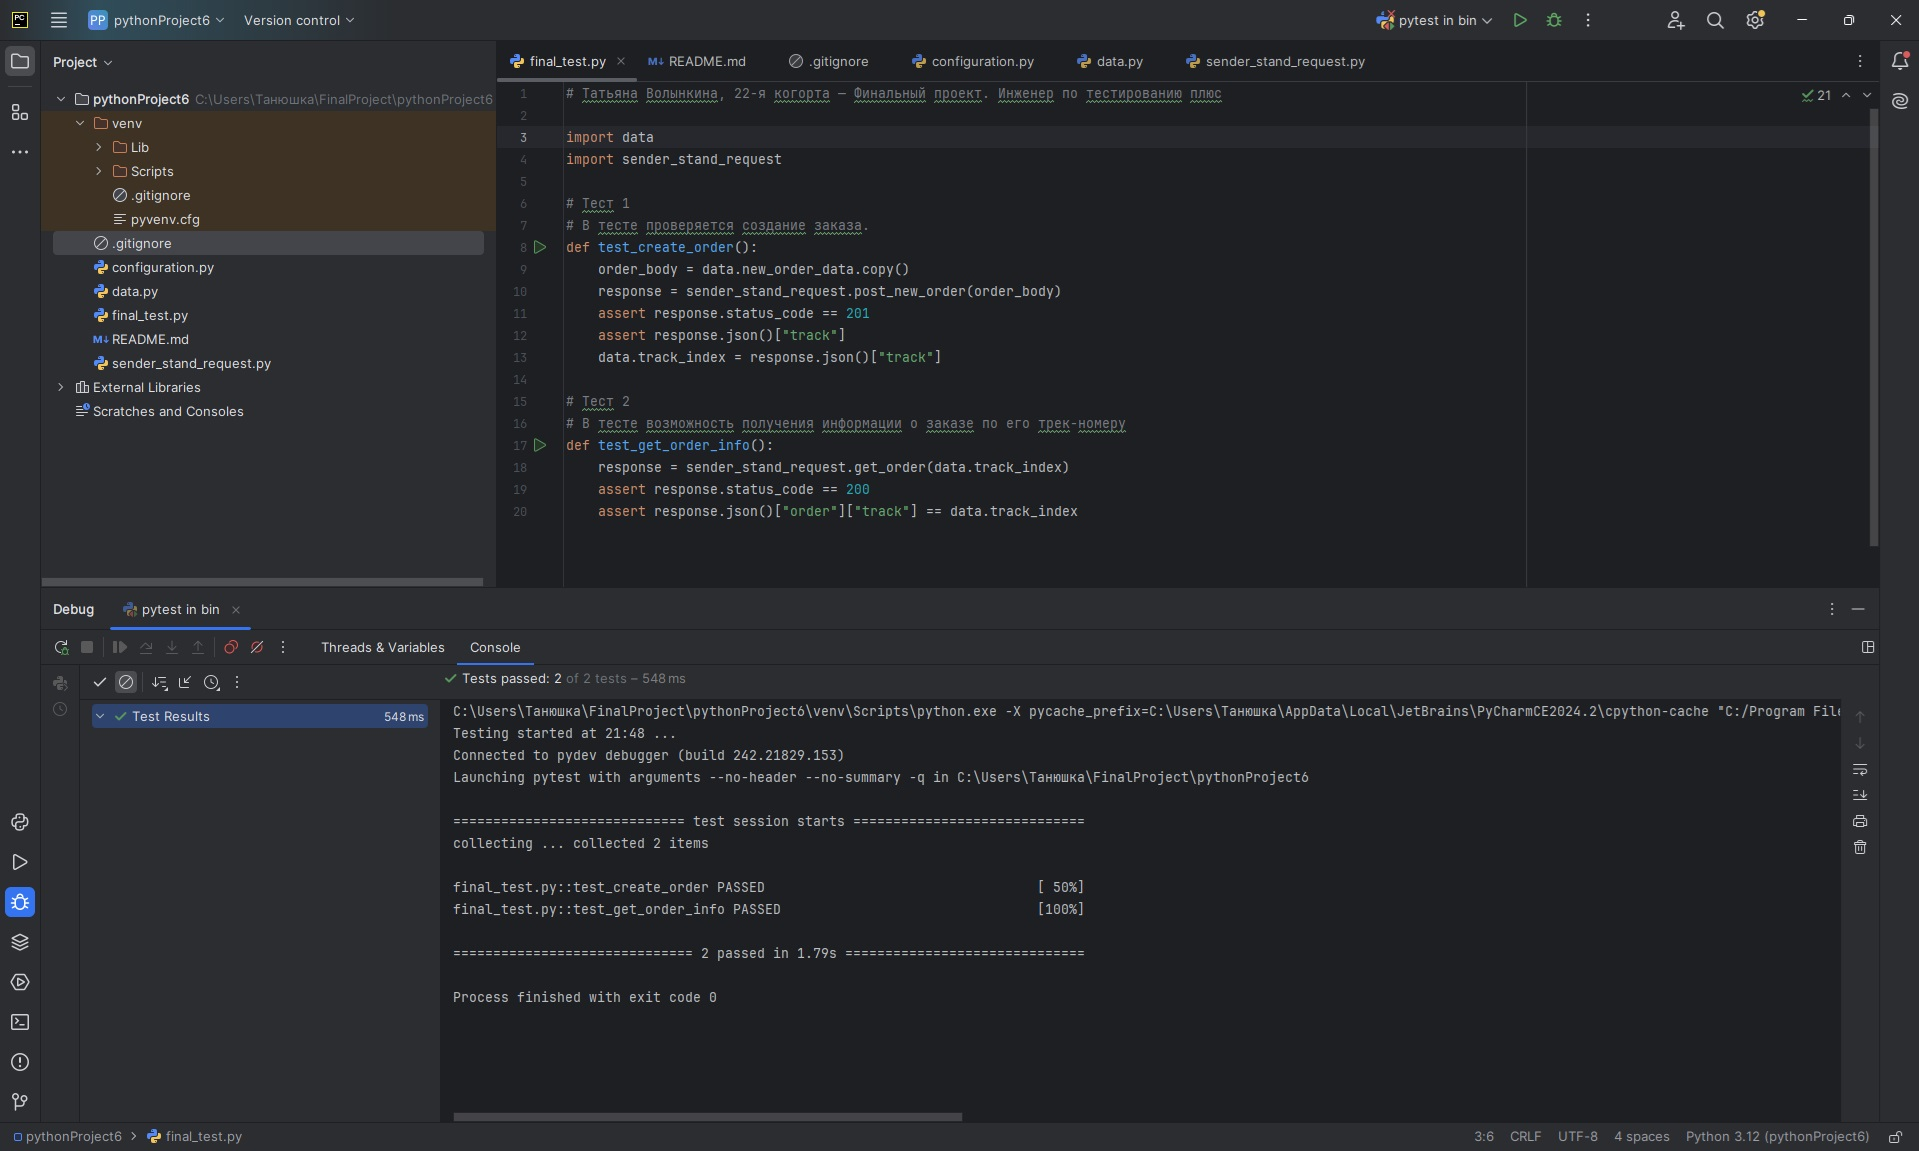
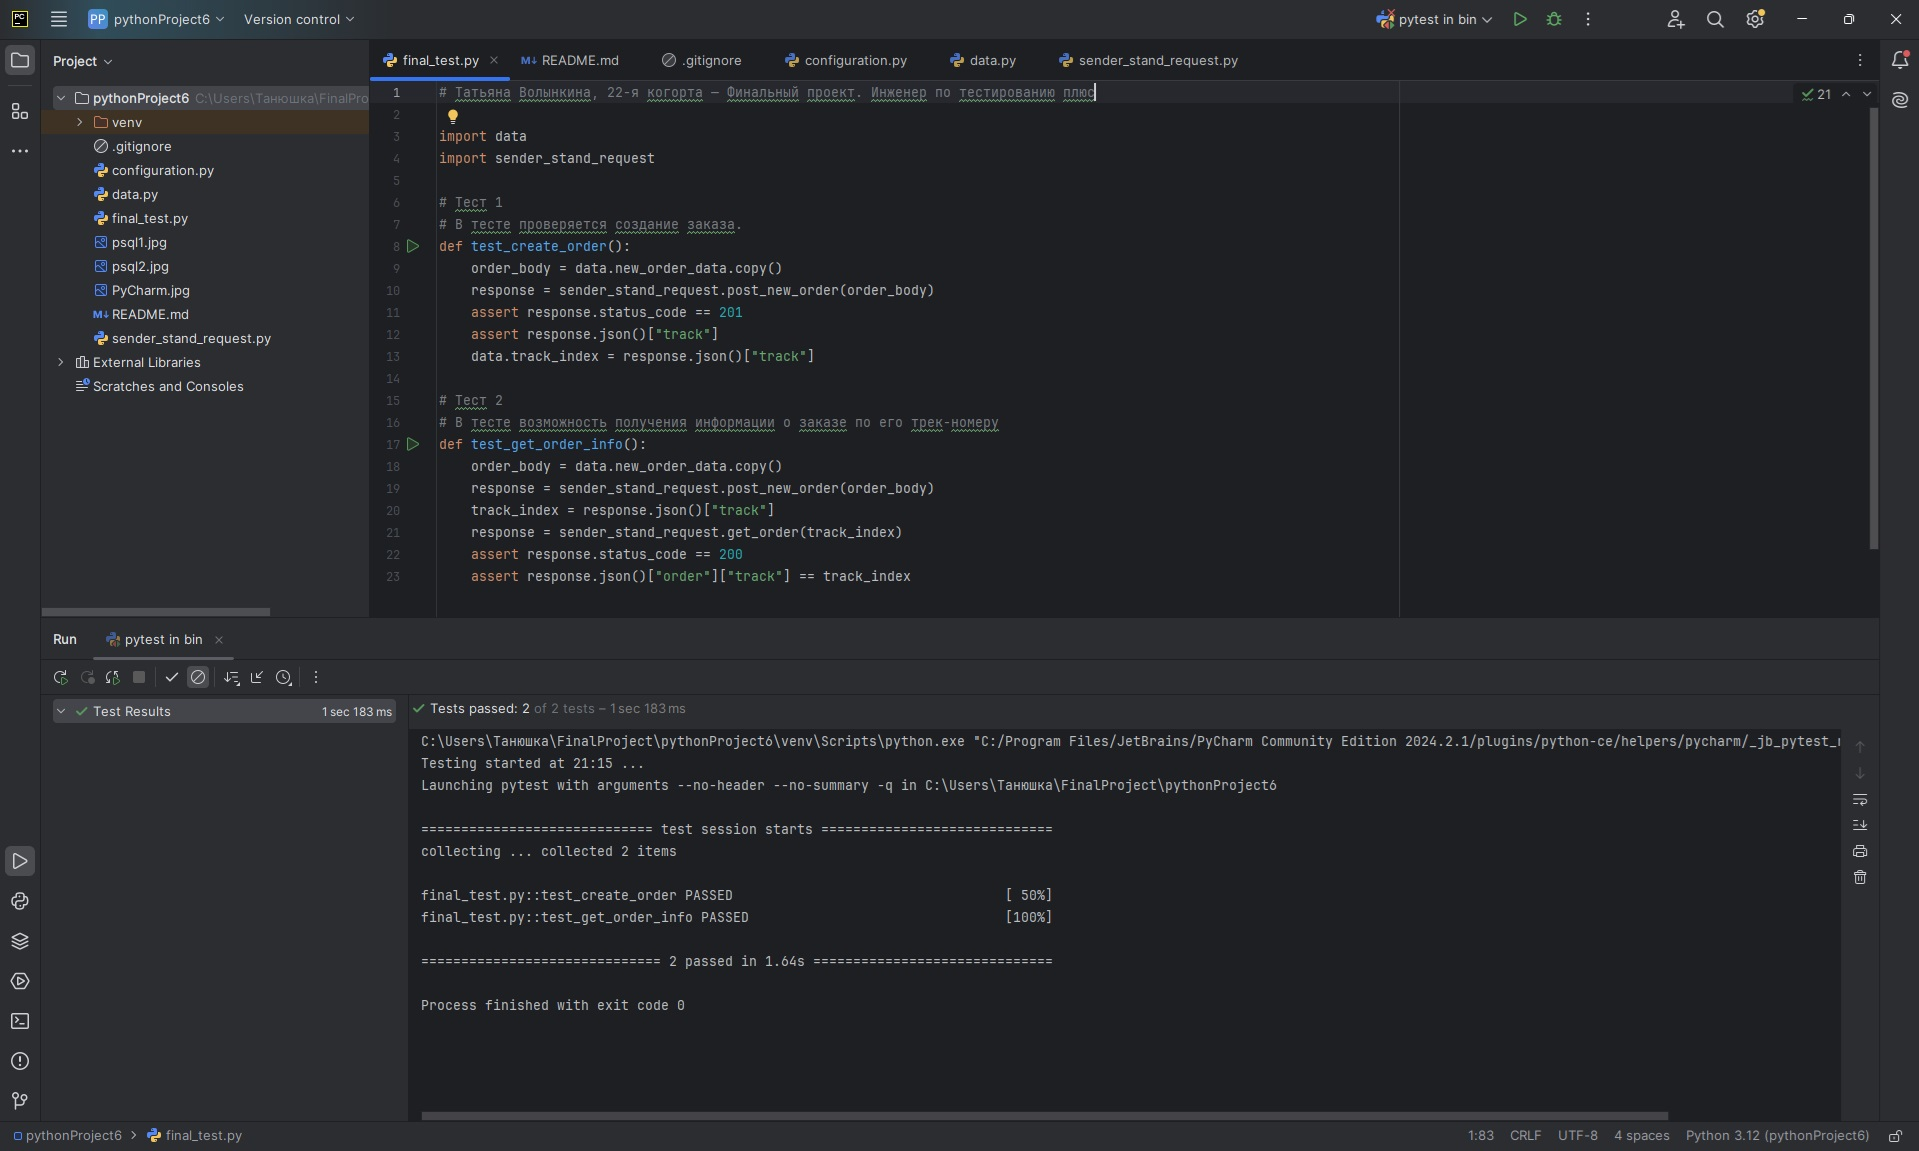
Обновлен код тестов

diff --git a/final_test.py b/final_test.py
@@ -15,6 +15,9 @@ def test_create_order():
 # Тест 2
 # В тесте возможность получения информации о заказе по его трек-номеру
 def test_get_order_info():
-    response = sender_stand_request.get_order(data.track_index)
+    order_body = data.new_order_data.copy()
+    response = sender_stand_request.post_new_order(order_body)
+    track_index = response.json()["track"]
+    response = sender_stand_request.get_order(track_index)
     assert response.status_code == 200
-    assert response.json()["order"]["track"] == data.track_index
+    assert response.json()["order"]["track"] == track_index

diff --git a/configuration.py b/configuration.py
@@ -1,3 +1,3 @@
-URL_SERVICE = "https://37c17631-be9f-46b1-80c7-ec8e065ea072.serverhub.praktikum-services.ru"
+URL_SERVICE = "https://006329dd-fc91-42b1-8965-6d3fe588bab5.serverhub.praktikum-services.ru"
 CREATE_ORDER_PATH = "/api/v1/orders"
 GET_ORDER_INFO_PATH = "/api/v1/orders/track"
